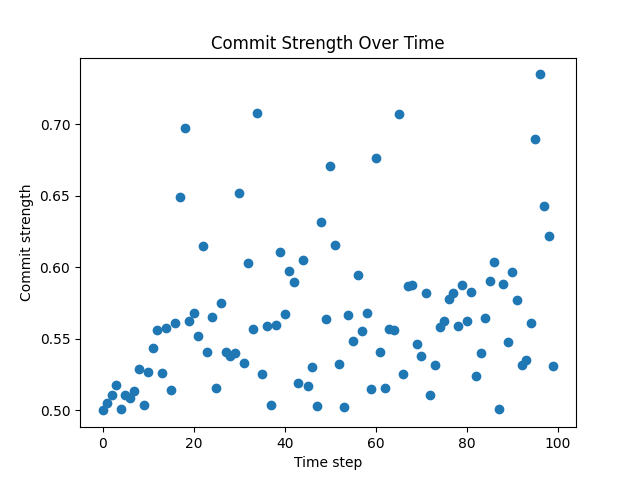
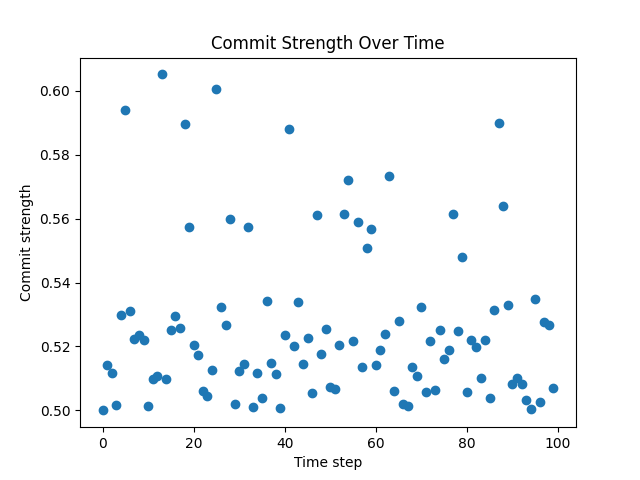
temp

diff --git a/slinglstm.py b/slinglstm.py
@@ -1,13 +1,202 @@
+# import torch
+# import torch.nn as nn
+
+# class EventMemoryCell(nn.Module):
+#     """
+#     Core event‐memory module:
+#       - Soft‐attention commit into FIFO slots
+#       - Per‐step leakage and cumulative features
+#       - Per‐slot timestamp Δt
+#       - Slot‐wise RNN fusion → h_mem
+#     """
+#     def __init__(self, input_dim, hidden_dim, n_slots):
+#         super().__init__()
+#         self.input_dim  = input_dim
+#         self.hidden_dim = hidden_dim
+#         self.n_slots    = n_slots
+
+#         # Key / Query / Value projections
+#         self.key   = nn.Linear(input_dim, hidden_dim, bias=False)
+#         self.query = nn.Linear(input_dim, hidden_dim, bias=False)
+#         self.value = nn.Linear(input_dim, input_dim)
+
+#         # Gates: reabsorb oldest & per‐step leak
+#         self.reabsorb_gate = nn.Linear(input_dim, 1)
+#         self.absorb_gate   = nn.Linear(input_dim, 1)
+
+#         # Slot‐wise RNN for fusion → hidden_dim
+#         feat_dim = input_dim * 2 + 1
+#         self.slot_rnn = nn.LSTM(
+#             input_size=feat_dim,
+#             hidden_size=hidden_dim,
+#             num_layers=1,
+#             batch_first=True
+#         )
+
+#     def init_state(self, batch_size, device=None):
+#         if device is None:
+#             device = next(self.parameters()).device
+#         h_mem     = torch.zeros(batch_size, self.hidden_dim, device=device)
+#         slots     = torch.zeros(batch_size, self.n_slots, self.input_dim, device=device)
+#         cum_feats = torch.zeros_like(slots)
+#         delta_t   = torch.zeros(batch_size, self.n_slots, device=device)
+#         return (h_mem, slots, cum_feats, delta_t)
+
+#     def forward(self, x_t, state):
+#         """
+#         x_t:  (B, input_dim)
+#         state: (h_mem_prev, slots, cum_feats, delta_t)
+#         Returns:
+#           h_mem, (h_mem, slots, cum_feats, delta_t)
+#         """
+#         h_mem_prev, slots, cum_feats, delta_t = state
+#         B = x_t.size(0)
+
+#         # 1) Age all slots
+#         delta_t = delta_t + 1
+
+#         # 2) Soft‐attention over slots
+#         q    = self.query(x_t)                       # (B, H)
+#         keys = self.key(slots)                       # (B, n_slots, H)
+#         sims = torch.einsum('bnh,bh->bn', keys, q)   # (B, n_slots)
+#         alpha = torch.softmax(sims, dim=1)           # (B, n_slots)
+
+#         # 3) Commit strength (scalar)
+#         max_sim, _ = sims.max(dim=1, keepdim=True)   # (B,1)
+#         g = torch.sigmoid(max_sim)                   # (B,1)
+
+#         # 4) Form new slot via reabsorb + value projection
+#         r      = torch.sigmoid(self.reabsorb_gate(x_t))   # (B,1)
+#         v      = self.value(x_t)                          # (B, input_dim)
+#         oldest = slots[:, 0, :]                           # (B, input_dim)
+#         new_slot = r * oldest + (1 - r) * v               # (B, input_dim)
+#         new_slot = g * new_slot                           # gated commit
+
+#         # 5) FIFO replace
+#         slots = torch.cat([slots[:, 1:, :], new_slot.unsqueeze(1)], dim=1)
+
+#         # 6) Cum‐features: reset newest, then add x_t
+#         cum_feats = torch.cat([
+#             cum_feats[:, 1:, :],
+#             torch.zeros(B, 1, self.input_dim, device=slots.device)
+#         ], dim=1)
+#         cum_feats = cum_feats + x_t.unsqueeze(1)
+
+#         # 7) Reset Δt for newest
+#         delta_t = torch.cat([
+#             delta_t[:, 1:],
+#             torch.zeros(B, 1, device=delta_t.device)
+#         ], dim=1)
+
+#         # 8) Leak into all slots & cum_feats
+#         leak = torch.sigmoid(self.absorb_gate(x_t)).unsqueeze(1)  # (B,1)
+#         slots     = slots     + leak * x_t.unsqueeze(1)
+#         cum_feats = cum_feats + x_t.unsqueeze(1)
+
+#         # 9) Fuse slots → h_mem
+#         mem_seq = torch.cat([
+#             slots,
+#             cum_feats,
+#             delta_t.unsqueeze(2)
+#         ], dim=2)  # (B, n_slots, 2*input_dim + 1)
+#         rnn_out, _ = self.slot_rnn(mem_seq)  # (B, n_slots, hidden_dim)
+#         h_mem = rnn_out[:, -1, :]            # (B, hidden_dim)
+
+#         return h_mem, (h_mem, slots, cum_feats, delta_t)
+
+
+# class EventAugmentedLSTMCell(nn.Module):
+#     """
+#     Wraps EventMemoryCell + an LSTM‐from‐scratch over [x_t; h_mem].
+#     State tuple: (h_lstm, c_lstm, h_mem, slots, cum_feats, delta_t)
+#     """
+#     def __init__(self, input_dim, hidden_dim, n_slots):
+#         super().__init__()
+#         self.input_dim  = input_dim
+#         self.hidden_dim = hidden_dim
+
+#         # core memory submodule
+#         self.event_cell = EventMemoryCell(input_dim, hidden_dim, n_slots)
+
+#         # LSTM‐from‐scratch parameters
+#         # input = [x_t; h_mem]
+#         self.W_ih = nn.Linear(input_dim + hidden_dim, 4 * hidden_dim)
+#         self.W_hh = nn.Linear(hidden_dim,             4 * hidden_dim, bias=False)
+
+#     def init_state(self, batch_size, device=None):
+#         if device is None:
+#             device = next(self.parameters()).device
+#         # LSTM state
+#         h_lstm = torch.zeros(batch_size, self.hidden_dim, device=device)
+#         c_lstm = torch.zeros(batch_size, self.hidden_dim, device=device)
+#         # memory state
+#         h_mem, slots, cum_feats, delta_t = \
+#             self.event_cell.init_state(batch_size, device)
+#         return (h_lstm, c_lstm, h_mem, slots, cum_feats, delta_t)
+
+#     def forward(self, x_t, state):
+#         """
+#         x_t:  (B, input_dim)
+#         state: (h_lstm, c_lstm, h_mem_prev, slots, cum_feats, delta_t)
+#         Returns:
+#           h_new, (h_new, c_new, h_mem, slots, cum_feats, delta_t)
+#         """
+#         h_lstm, c_lstm, h_mem_prev, slots, cum_feats, delta_t = state
+
+#         # --- 1) memory update ---
+#         h_mem, (h_mem, slots, cum_feats, delta_t) = \
+#             self.event_cell(x_t, (h_mem_prev, slots, cum_feats, delta_t))
+
+#         # --- 2) LSTM‐from‐scratch on [x_t; h_mem] ---
+#         gates = self.W_ih(torch.cat([x_t, h_mem], dim=1)) \
+#               + self.W_hh(h_lstm)
+#         i, f, g_tilde, o = gates.chunk(4, dim=1)
+#         i = torch.sigmoid(i)
+#         f = torch.sigmoid(f)
+#         g_tilde = torch.tanh(g_tilde)
+#         o = torch.sigmoid(o)
+
+#         c_new = f * c_lstm + i * g_tilde
+#         h_new = o * torch.tanh(c_new)
+
+#         return h_new, (h_new, c_new, h_mem, slots, cum_feats, delta_t)
+
+
+# class EventAugmentedLSTM(nn.Module):
+#     """
+#     Sequence wrapper: steps through EventAugmentedLSTMCell + final readout.
+#     """
+#     def __init__(self, input_dim, mem_slots, hidden_dim, out_dim):
+#         super().__init__()
+#         self.cell       = EventAugmentedLSTMCell(input_dim, hidden_dim, mem_slots)
+#         self.classifier = nn.Linear(hidden_dim, out_dim)
+
+#     def forward(self, x):
+#         """
+#         x: Tensor[T, B, input_dim]
+#         returns: Tensor[T, B, out_dim]
+#         """
+#         T, B, _ = x.size()
+#         state = self.cell.init_state(B, device=x.device)
+
+#         outputs = []
+#         for t in range(T):
+#             h_t, state = self.cell(x[t], state)
+#             outputs.append(self.classifier(h_t).unsqueeze(0))
+
+#         return torch.cat(outputs, dim=0)
+
+
 import torch
 import torch.nn as nn
 
 class EventMemoryCell(nn.Module):
     """
-    Core event‐memory module:
-      - Soft‐attention commit into FIFO slots
-      - Per‐step leakage and cumulative features
-      - Per‐slot timestamp Δt
-      - Slot‐wise RNN fusion → h_mem
+    Core event‑memory module:
+      - Soft‑attention commit into FIFO slots
+      - Removed reabsorb & leak gates, now commit-only replacement
+      - Per‑step cumulative features & Δt
+      - Slot‑wise RNN fusion → h_mem
     """
     def __init__(self, input_dim, hidden_dim, n_slots):
         super().__init__()
@@ -20,11 +209,7 @@ class EventMemoryCell(nn.Module):
         self.query = nn.Linear(input_dim, hidden_dim, bias=False)
         self.value = nn.Linear(input_dim, input_dim)
 
-        # Gates: reabsorb oldest & per‐step leak
-        self.reabsorb_gate = nn.Linear(input_dim, 1)
-        self.absorb_gate   = nn.Linear(input_dim, 1)
-
-        # Slot‐wise RNN for fusion → hidden_dim
+        # Slot‑wise RNN for fusion → hidden_dim
         feat_dim = input_dim * 2 + 1
         self.slot_rnn = nn.LSTM(
             input_size=feat_dim,
@@ -55,27 +240,29 @@ class EventMemoryCell(nn.Module):
         # 1) Age all slots
         delta_t = delta_t + 1
 
-        # 2) Soft‐attention over slots
-        q    = self.query(x_t)                       # (B, H)
-        keys = self.key(slots)                       # (B, n_slots, H)
-        sims = torch.einsum('bnh,bh->bn', keys, q)   # (B, n_slots)
-        alpha = torch.softmax(sims, dim=1)           # (B, n_slots)
+        # 2) Soft‑attention over slots
+        q    = self.query(x_t)                              # (B, H)
+        keys = self.key(slots)                              # (B, n_slots, H)
+        sims = torch.einsum('bnh,bh->bn', keys, q)          # (B, n_slots)
+        alpha = torch.softmax(sims, dim=1)                  # (B, n_slots)
 
         # 3) Commit strength (scalar)
-        max_sim, _ = sims.max(dim=1, keepdim=True)   # (B,1)
-        g = torch.sigmoid(max_sim)                   # (B,1)
+        max_sim, _ = sims.max(dim=1, keepdim=True)          # (B,1)
+        g = torch.sigmoid(max_sim)                          # (B,1)
 
-        # 4) Form new slot via reabsorb + value projection
-        r      = torch.sigmoid(self.reabsorb_gate(x_t))   # (B,1)
-        v      = self.value(x_t)                          # (B, input_dim)
-        oldest = slots[:, 0, :]                           # (B, input_dim)
-        new_slot = r * oldest + (1 - r) * v               # (B, input_dim)
-        new_slot = g * new_slot                           # gated commit
+        # 4) Simplified commit-only: project value and gate by g
+        v        = self.value(x_t)                          # (B, input_dim)
+        new_slot = g * v                                    # (B, input_dim)
 
-        # 5) FIFO replace
-        slots = torch.cat([slots[:, 1:, :], new_slot.unsqueeze(1)], dim=1)
+        # 5) FIFO replace _only_ when commit exceeds threshold
+        tau   = 0.1
+        mask  = (g > tau).float().view(B,1,1)               # (B,1,1)
+        # candidate FIFO-shifted slots + new slot
+        cand  = torch.cat([slots[:, 1:, :], new_slot.unsqueeze(1)], dim=1)
+        # apply conditional replace
+        slots = mask * cand + (1 - mask) * slots
 
-        # 6) Cum‐features: reset newest, then add x_t
+        # 6) Cum‑features: reset newest, then add x_t
         cum_feats = torch.cat([
             cum_feats[:, 1:, :],
             torch.zeros(B, 1, self.input_dim, device=slots.device)
@@ -88,10 +275,7 @@ class EventMemoryCell(nn.Module):
             torch.zeros(B, 1, device=delta_t.device)
         ], dim=1)
 
-        # 8) Leak into all slots & cum_feats
-        leak = torch.sigmoid(self.absorb_gate(x_t)).unsqueeze(1)  # (B,1)
-        slots     = slots     + leak * x_t.unsqueeze(1)
-        cum_feats = cum_feats + x_t.unsqueeze(1)
+        # 8) (removed) no leak/absorb gates
 
         # 9) Fuse slots → h_mem
         mem_seq = torch.cat([
@@ -107,7 +291,7 @@ class EventMemoryCell(nn.Module):
 
 class EventAugmentedLSTMCell(nn.Module):
     """
-    Wraps EventMemoryCell + an LSTM‐from‐scratch over [x_t; h_mem].
+    Wraps EventMemoryCell + an LSTM-from-scratch over [x_t; h_mem].
     State tuple: (h_lstm, c_lstm, h_mem, slots, cum_feats, delta_t)
     """
     def __init__(self, input_dim, hidden_dim, n_slots):
@@ -118,7 +302,7 @@ class EventAugmentedLSTMCell(nn.Module):
         # core memory submodule
         self.event_cell = EventMemoryCell(input_dim, hidden_dim, n_slots)
 
-        # LSTM‐from‐scratch parameters
+        # LSTM-from-scratch parameters
         # input = [x_t; h_mem]
         self.W_ih = nn.Linear(input_dim + hidden_dim, 4 * hidden_dim)
         self.W_hh = nn.Linear(hidden_dim,             4 * hidden_dim, bias=False)
@@ -137,7 +321,8 @@ class EventAugmentedLSTMCell(nn.Module):
     def forward(self, x_t, state):
         """
         x_t:  (B, input_dim)
-        state: (h_lstm, c_lstm, h_mem_prev, slots, cum_feats, delta_t)
+        state:
+         (h_lstm, c_lstm, h_mem_prev, slots, cum_feats, delta_t)
         Returns:
           h_new, (h_new, c_new, h_mem, slots, cum_feats, delta_t)
         """
@@ -147,7 +332,7 @@ class EventAugmentedLSTMCell(nn.Module):
         h_mem, (h_mem, slots, cum_feats, delta_t) = \
             self.event_cell(x_t, (h_mem_prev, slots, cum_feats, delta_t))
 
-        # --- 2) LSTM‐from‐scratch on [x_t; h_mem] ---
+        # --- 2) LSTM-from-scratch on [x_t; h_mem] ---
         gates = self.W_ih(torch.cat([x_t, h_mem], dim=1)) \
               + self.W_hh(h_lstm)
         i, f, g_tilde, o = gates.chunk(4, dim=1)
@@ -185,3 +370,4 @@ class EventAugmentedLSTM(nn.Module):
             outputs.append(self.classifier(h_t).unsqueeze(0))
 
         return torch.cat(outputs, dim=0)
+
